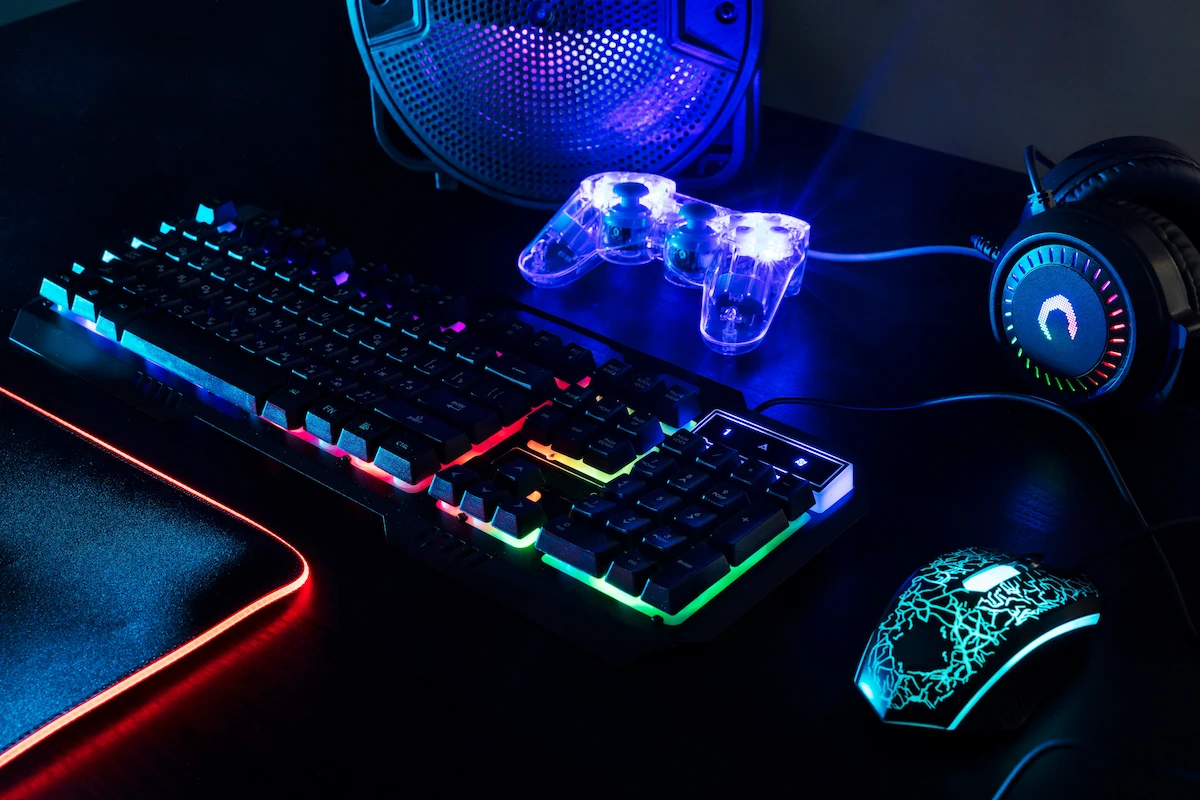
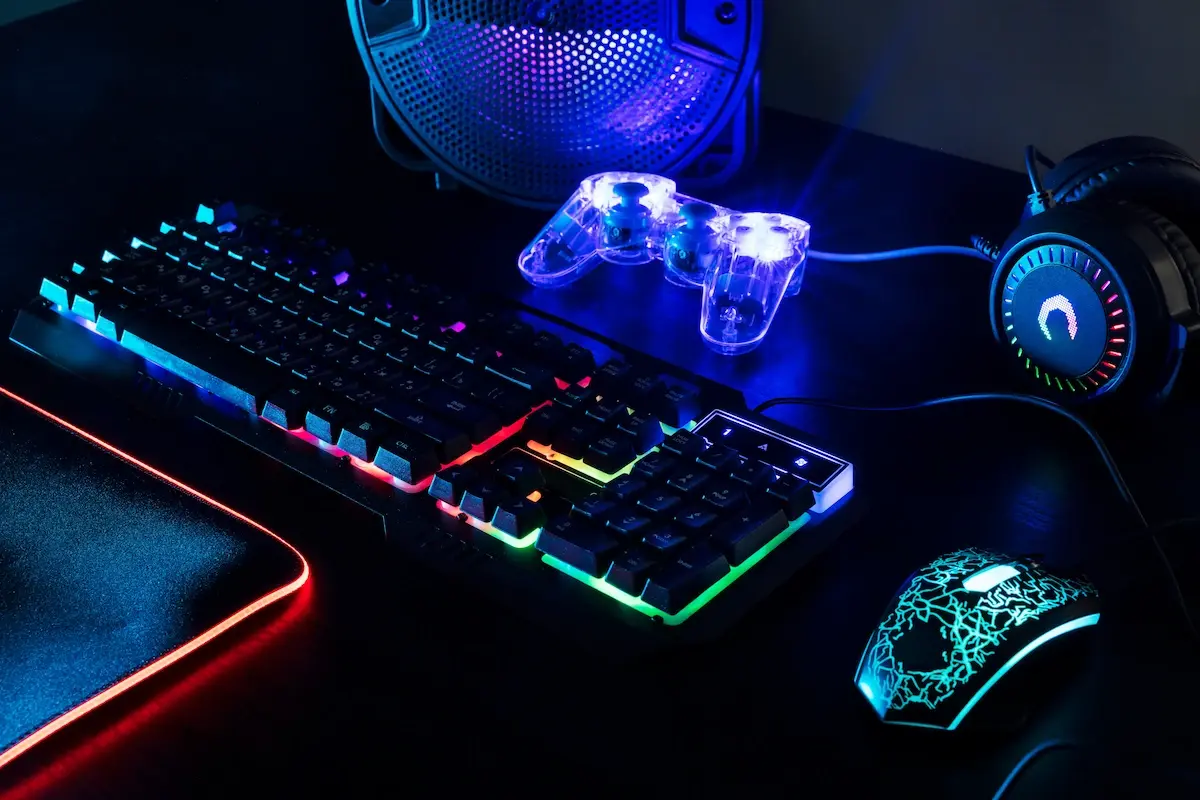
Image Optimization

diff --git a/src/app/pages/index/index.component.html b/src/app/pages/index/index.component.html
@@ -22,7 +22,7 @@
           </div>
           <div class="carousel-item">
             <img 
-              src="images/img2.avif" 
+              src="images/img2.webp" 
               class="d-block w-100" 
               alt="Slide 2" 
               width="1200"
